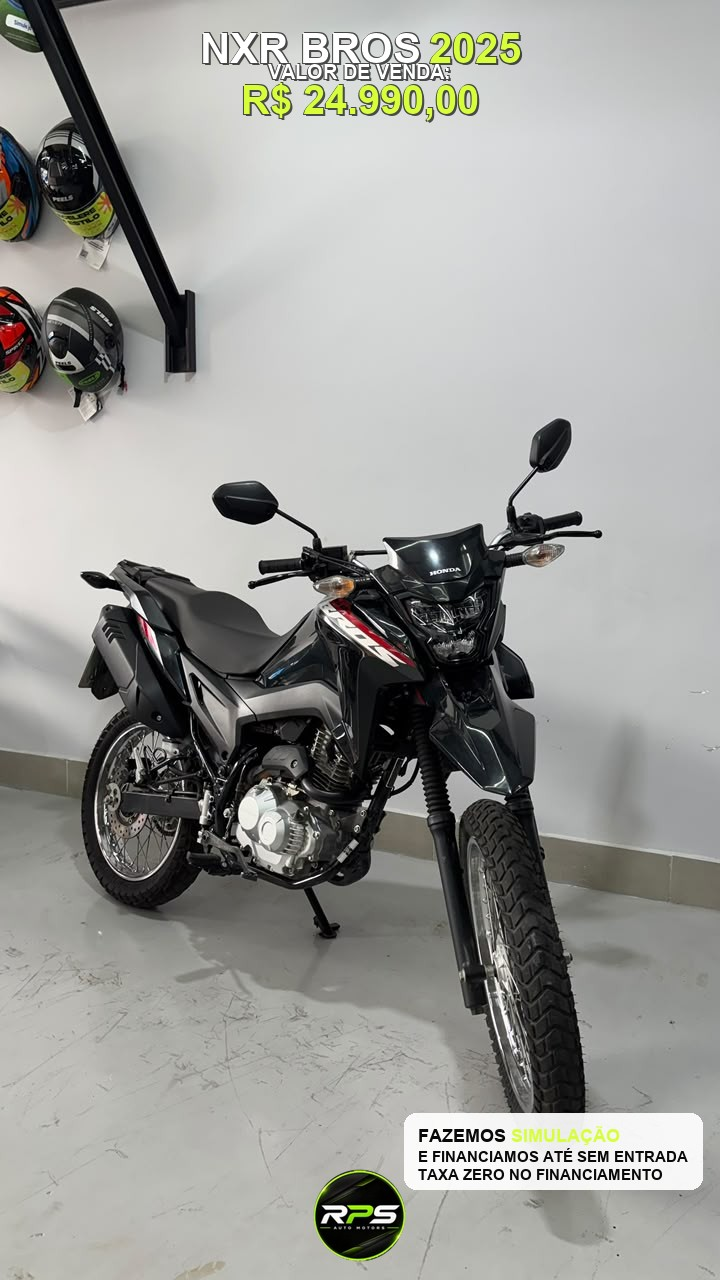
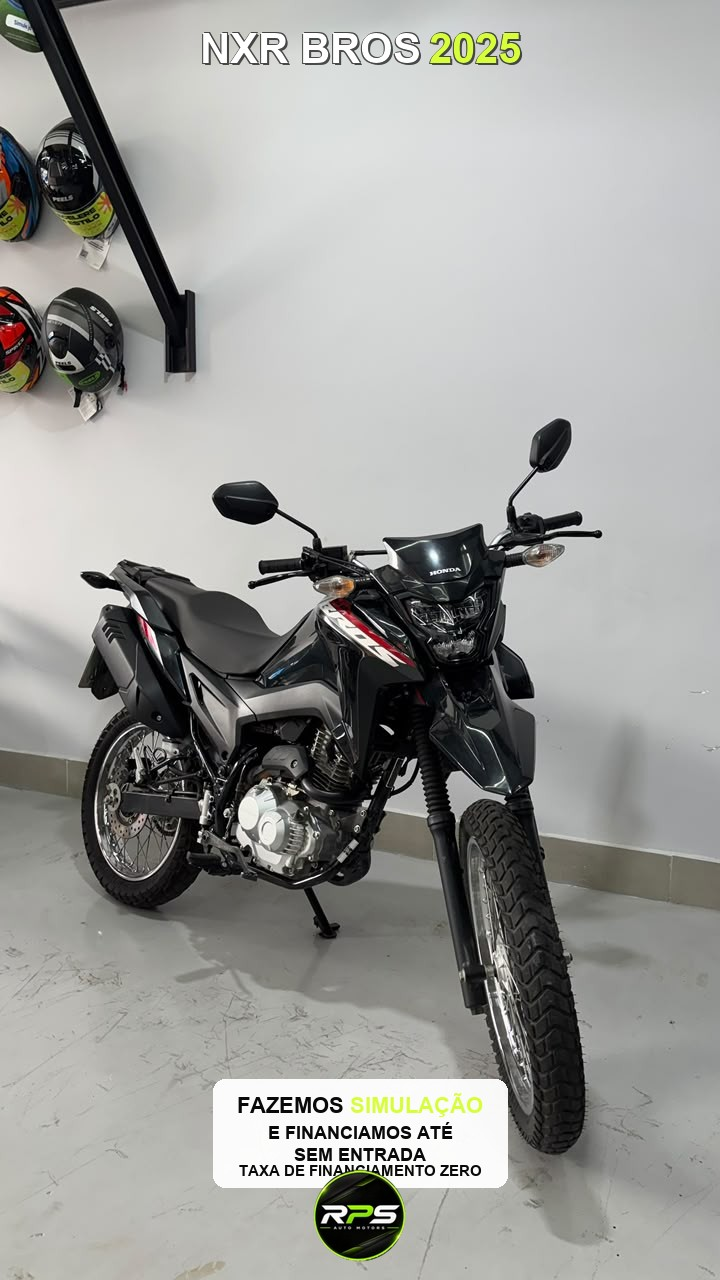
Center motorcycle captions like the attached Titan template.
Move the financing box and logo to the horizontal center so every for-sale photo matches the new layout.

Changed region(s): [[0.275, 0.8438, 0.9778, 0.9375], [0.3361, 0.0312, 0.6722, 0.0938]]

diff --git a/scripts/caption_motos.py b/scripts/caption_motos.py
@@ -1,0 +1,261 @@
+from pathlib import Path
+import re
+
+from PIL import Image, ImageDraw, ImageFont
+
+SRC = Path(r"H:\full-stack-projects\rps-project\public\motos\motos-atualizadas\MOTOS")
+OUT = Path(r"H:\full-stack-projects\rps-project\public\motos\motos-atualizadas-com-legenda")
+LOGO = Path(r"H:\full-stack-projects\rps-project\public\logo.png")
+
+LIME = (214, 255, 58)
+WHITE = (255, 255, 255)
+BLACK = (9, 9, 9)
+
+FONT_CANDIDATES = [
+    r"C:\Windows\Fonts\arialbd.ttf",
+    r"C:\Windows\Fonts\segoeuib.ttf",
+    r"C:\Windows\Fonts\arial.ttf",
+    r"C:\Windows\Fonts\segoeui.ttf",
+]
+FONT_PATH = next((p for p in FONT_CANDIDATES if Path(p).exists()), None)
+if not FONT_PATH:
+    raise SystemExit("Nenhuma fonte TrueType encontrada.")
+
+
+def font(size: int) -> ImageFont.FreeTypeFont:
+    return ImageFont.truetype(FONT_PATH, size)
+
+
+def format_price(raw: str) -> str:
+    cleaned = raw.strip()
+    if re.search(r",\d{2}$", cleaned):
+        cleaned = cleaned.rsplit(",", 1)[0]
+    digits = re.sub(r"[^\d]", "", cleaned)
+    value = int(digits)
+    return f"R$ {value:,}".replace(",", ".") + ",00"
+
+
+def parse_folder(name: str) -> dict:
+    match = re.search(r"(\d{1,3}(?:[.\s]\d{3})*(?:,\d{2})?|\d{4,6}(?:,\d{2})?)\s*$", name)
+    if not match:
+        raise ValueError(f"Sem preço na pasta: {name}")
+    price = format_price(match.group(1))
+    rest = name[: match.start()].strip(" -")
+
+    year_match = re.search(r"(20\d{2})", rest)
+    year = year_match.group(1) if year_match else ""
+    if year_match:
+        rest = (rest[: year_match.start()] + rest[year_match.end() :]).strip(" -")
+
+    km = None
+    km_match = re.search(r"\b(\d+)\s*KM\b", rest, re.I)
+    if km_match:
+        number = int(km_match.group(1))
+        km = "0 km" if number == 0 else f"{number} km"
+        rest = (rest[: km_match.start()] + rest[km_match.end() :]).strip(" -")
+    if re.search(r"\b0KM\b", rest, re.I):
+        km = "0 km"
+        rest = re.sub(r"\b0KM\b", "", rest, flags=re.I).strip(" -")
+
+    color = None
+    for candidate in ("VERMELHA", "AZUL", "PRETA", "BRANCA", "CINZA"):
+        if re.search(rf"\b{candidate}\b", rest, re.I):
+            color = candidate
+            rest = re.sub(rf"\b{candidate}\b", "", rest, flags=re.I).strip(" -")
+            break
+
+    title = re.sub(r"\s+", " ", rest).strip(" -")
+    title = title.replace("FAZE FZ25", "FAZER FZ25")
+    title = title.replace("NXRE BROS", "NXR BROS")
+    title = re.sub(r"\s*-\s*", " ", title).strip().upper()
+
+    subtitle_parts: list[str] = []
+    if "ORIGINAL" in title:
+        subtitle_parts.append("ORIGINAL")
+        title = title.replace("ORIGINAL", "").strip()
+    if "SETA LED" in title:
+        subtitle_parts.append("SETA LED")
+        title = re.sub(r"SETA\s*LED", "", title).strip()
+    if color:
+        subtitle_parts.append(color)
+    title = re.sub(r"\s+", " ", title).strip(" -")
+
+    return {
+        "title": title,
+        "year": year,
+        "price": price,
+        "km": km,
+        "subtitle": " · ".join(subtitle_parts) if subtitle_parts else None,
+        "folder": name,
+    }
+
+
+def text_size(draw: ImageDraw.ImageDraw, text: str, fnt: ImageFont.FreeTypeFont) -> tuple[int, int]:
+    box = draw.textbbox((0, 0), text, font=fnt)
+    return box[2] - box[0], box[3] - box[1]
+
+
+def draw_text_with_shadow(
+    draw: ImageDraw.ImageDraw,
+    xy: tuple[int, int],
+    text: str,
+    fnt: ImageFont.FreeTypeFont,
+    fill: tuple[int, int, int],
+) -> None:
+    x, y = xy
+    for dx, dy in ((2, 2), (1, 1), (-1, 1), (1, -1)):
+        draw.text((x + dx, y + dy), text, font=fnt, fill=(0, 0, 0, 170))
+    draw.text((x, y), text, font=fnt, fill=fill)
+
+
+def draw_mixed_title(
+    draw: ImageDraw.ImageDraw,
+    center_x: int,
+    y: int,
+    model: str,
+    year: str,
+    fnt: ImageFont.FreeTypeFont,
+) -> int:
+    gap = max(8, fnt.size // 8)
+    width_model, height_model = text_size(draw, model, fnt)
+    width_year, height_year = text_size(draw, year, fnt) if year else (0, 0)
+    total = width_model + (gap if year else 0) + width_year
+    x = center_x - total // 2
+    draw_text_with_shadow(draw, (x, y), model, fnt, WHITE)
+    if year:
+        draw_text_with_shadow(draw, (x + width_model + gap, y), year, fnt, LIME)
+    return max(height_model, height_year)
+
+
+def caption_image(src: Path, meta: dict, dest: Path) -> None:
+    img = Image.open(src).convert("RGBA")
+    width, height = img.size
+    scale = width / 1080
+
+    overlay = Image.new("RGBA", img.size, (0, 0, 0, 0))
+    draw = ImageDraw.Draw(overlay)
+
+    title_font = font(max(42, int(64 * scale)))
+    sub_font = font(max(22, int(30 * scale)))
+    box_title_font = font(max(22, int(30 * scale)))
+    box_body_font = font(max(18, int(24 * scale)))
+    box_small_font = font(max(15, int(18 * scale)))
+
+    center_x = width // 2
+    y = int(36 * scale)
+
+    # Top: modelo (branco) + ano (lima), centralizados — igual ao modelo anexado
+    title_height = draw_mixed_title(draw, center_x, y, meta["title"], meta["year"], title_font)
+    y += title_height + int(10 * scale)
+
+    if meta["subtitle"]:
+        text_width, text_height = text_size(draw, meta["subtitle"], sub_font)
+        draw_text_with_shadow(draw, (center_x - text_width // 2, y), meta["subtitle"], sub_font, WHITE)
+
+    # Caixa branca centralizada na parte inferior
+    lines = [
+        (("FAZEMOS ", BLACK), ("SIMULAÇÃO", LIME), box_title_font),
+        (("E FINANCIAMOS ATÉ", BLACK), None, box_body_font),
+        (("SEM ENTRADA", BLACK), None, box_body_font),
+        (("TAXA DE FINANCIAMENTO ZERO", BLACK), None, box_small_font),
+    ]
+    pad_x, pad_y = int(36 * scale), int(22 * scale)
+    gap_line = int(8 * scale)
+    content_width = 0
+    content_height = 0
+    measured = []
+    for left, right, line_font in lines:
+        left_text, left_color = left
+        left_width, left_height = text_size(draw, left_text, line_font)
+        if right is None:
+            measured.append((left_text, left_color, None, None, left_height, line_font))
+            content_width = max(content_width, left_width)
+            content_height += left_height + gap_line
+        else:
+            right_text, right_color = right
+            right_width, right_height = text_size(draw, right_text, line_font)
+            measured.append(
+                (left_text, left_color, right_text, right_color, max(left_height, right_height), line_font)
+            )
+            content_width = max(content_width, left_width + right_width)
+            content_height += max(left_height, right_height) + gap_line
+    content_height -= gap_line
+
+    box_width = content_width + pad_x * 2
+    box_height = content_height + pad_y * 2
+    margin = int(28 * scale)
+    logo_size = int(140 * scale)
+    # Caixa acima do logo, centralizada; logo sobrepõe levemente a borda inferior
+    box_x1 = (width - box_width) // 2
+    box_y1 = height - margin - logo_size - box_height + int(28 * scale)
+    box_x2 = box_x1 + box_width
+    box_y2 = box_y1 + box_height
+    draw.rounded_rectangle(
+        (box_x1, box_y1, box_x2, box_y2),
+        radius=int(18 * scale),
+        fill=(255, 255, 255, 242),
+    )
+
+    text_y = box_y1 + pad_y
+    for left_text, left_color, right_text, right_color, line_height, line_font in measured:
+        if right_text is None:
+            text_width, _ = text_size(draw, left_text, line_font)
+            draw.text((center_x - text_width // 2, text_y), left_text, font=line_font, fill=left_color)
+        else:
+            left_width, _ = text_size(draw, left_text, line_font)
+            right_width, _ = text_size(draw, right_text, line_font)
+            text_x = center_x - (left_width + right_width) // 2
+            draw.text((text_x, text_y), left_text, font=line_font, fill=left_color)
+            draw.text((text_x + left_width, text_y), right_text, font=line_font, fill=right_color)
+        text_y += line_height + gap_line
+
+    logo = Image.open(LOGO).convert("RGBA")
+    logo = logo.resize((logo_size, logo_size), Image.Resampling.LANCZOS)
+    logo_x = (width - logo_size) // 2
+    logo_y = height - margin - logo_size
+    overlay.alpha_composite(logo, (logo_x, logo_y))
+
+    result = Image.alpha_composite(img, overlay).convert("RGB")
+    dest.parent.mkdir(parents=True, exist_ok=True)
+    result.save(dest, "JPEG", quality=90, optimize=True)
+
+
+def main() -> None:
+    OUT.mkdir(parents=True, exist_ok=True)
+    summary = []
+    count = 0
+
+    folders = sorted([path for path in SRC.iterdir() if path.is_dir()], key=lambda path: path.name.lower())
+    for folder in folders:
+        meta = parse_folder(folder.name)
+        summary.append(meta)
+        photos = sorted(
+            [
+                path
+                for path in folder.iterdir()
+                if path.suffix.lower() in {".jpg", ".jpeg", ".png", ".webp"}
+            ]
+        )
+        seen: set[str] = set()
+        index = 0
+        for photo in photos:
+            key = photo.name.lower().replace(" (1)", "")
+            if key in seen:
+                continue
+            seen.add(key)
+            index += 1
+            dest = OUT / folder.name / f"{index:02d}-{photo.stem[:12]}.jpg"
+            caption_image(photo, meta, dest)
+            count += 1
+
+    print(f"Generated {count} captioned photos in {OUT}")
+    print("---")
+    for meta in summary:
+        print(meta["folder"])
+        print(
+            f"  -> {meta['title']} | {meta['year']} | {meta['km']} | {meta['subtitle']} | {meta['price']}"
+        )
+
+
+if __name__ == "__main__":
+    main()
